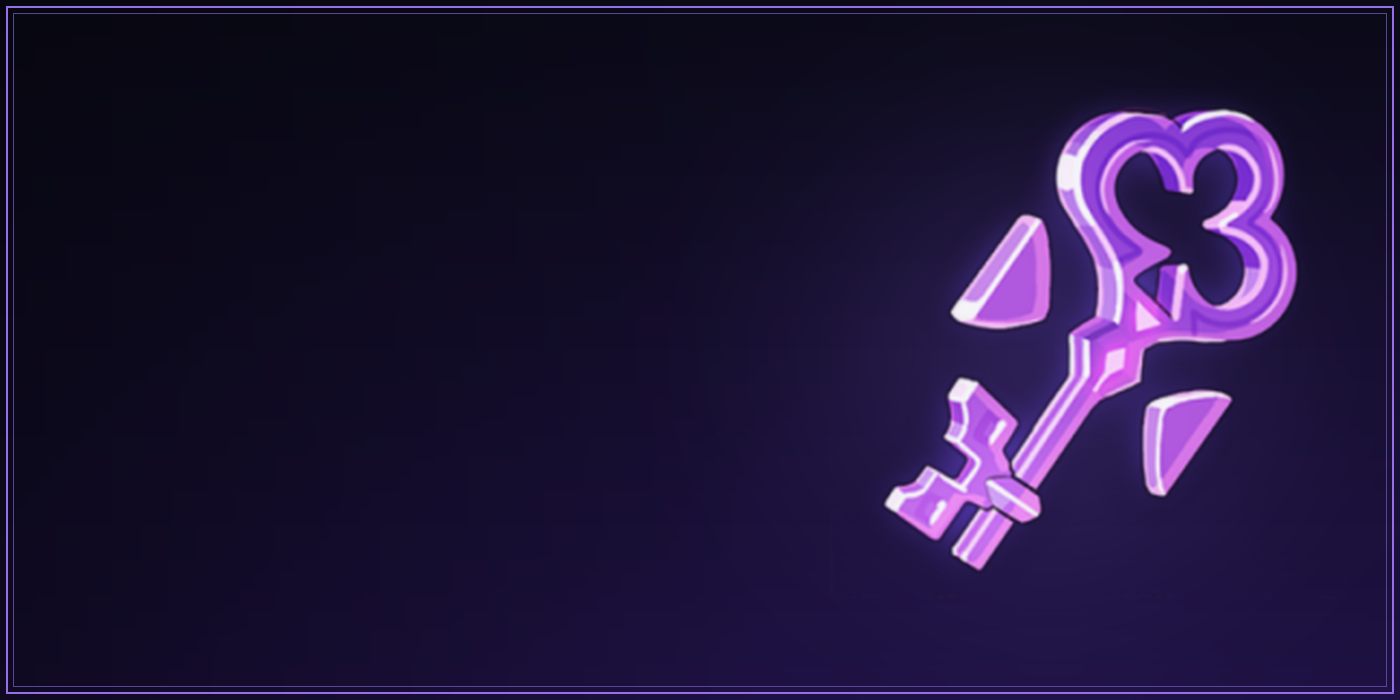
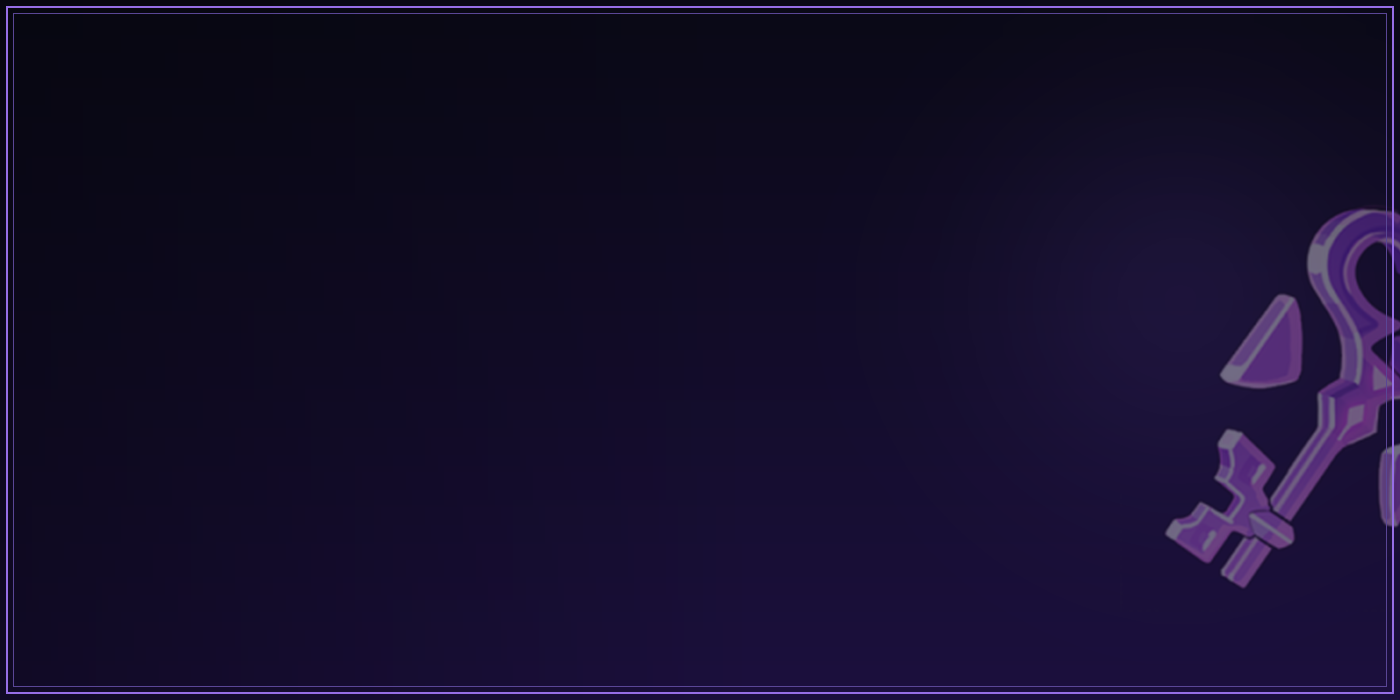
清理历史 bug + 刻印抽取改为传送门风格卡片并重排版
历史 bug：
- BH3_ValkyrieAir.txt 删除嵌套的 module_count_limit（解析错误）
- 学说文件删除不存在的 has_doctrine = bh3_sd_refined
- 删除 create_corps_commander 里 138 处非法 can_be_captured
- TheDivineKeys 决议删除 3 种非法 modifier 与非法 effect change_influence_percentage
- 4 个实体文件把废弃 mesh Kiana_HerrscherofVoid_pdx 改为 Kiana_HerrscherofVoid_Body_pdx

GUI：
- 新增 GFX_BH3_ER_portal_card（400x90 传送门风格卡片：紫黑底、圆形图标槽、光柱、描边）
- 新增 GFX_BH3_ER_signet_1..6（复用 13 个系图标中的 6 个）
- 候选按钮改为 6 张卡片 2x3 排布，左侧叠 64px 刻印图标
- 左列按钮整体上移，抽取/放弃移到底部
- 背景重做：钥匙缩到右侧边缘并降到 38% 透明

文档：实现记录补 2.6/2.7；避坑指南补第 10 节（临时目录模块遮蔽、文档性枚举提示）

Changed region(s): [[0.6143, 0.15, 1.0, 0.84]]

diff --git a/docs/BH3_往世乐土_实现记录.md b/docs/BH3_往世乐土_实现记录.md
@@ -145,3 +145,24 @@ ER 主界面（BH3_ER_menu）现在是完整面板：
 - 6 个候选按钮是硬编码的，扩到 12 系 × 14 枚（168）时需要改成“按系分池 + 动态渲染”（或每系一页）；
 - 目前不做重复保护：同一刻印抽到第二次仍会给精神（已有时跳过加精神，但计数仍 +1）；
 - 权重目前是均等 1/6，正式版要按稀有度/是否已持有加权。
+
+
+### 2.6 传送门风格刻印卡片与重排版（2026-11-25）
+
+- 新增 sprite：GFX_BH3_ER_portal_card（400x90 PNG 卡片：紫黑底、左侧圆形图标槽、竖向光柱、紫色描边）
+- 新增 6 个刻印图标 sprite：GFX_BH3_ER_signet_1..6（复用 elysianrealm/signet_*.png：救世= Savior、刹那= Setsuna、浮生= Fusheng、旭光= Kosma、黄金= Gold、天慧= Bodhi）
+- 抽取候选改成 6 张卡片，2 列 x 3 行（x=540/960，y=160/275/390），卡片左侧用 iconType 叠 64px 刻印图标（scale 0.5）
+- 左列按钮整体上移：推进 150 / 双倍 205 / 商店 260/315/370 / 英桀 425 / 抽取 480 / 放弃 535
+- 背景重做：无瑕之钥缩小到右侧边缘、透明度 38%，避免与卡片抢视线
+
+### 2.7 历史 bug 修复（2026-11-25）
+
+| 文件 | 问题 | 处理 |
+|---|---|---|
+| common/units/equipment/BH3_ValkyrieAir.txt | module_count_limit 里嵌套 module_count_limit 导致解析错误 | 删除嵌套块 |
+| common/doctrines/subdoctrines/land/BH3_valkyrie_subdoctrines.txt | has_doctrine = bh3_sd_refined，该学说不存在 | 删除该 available 块（原本就没有实际作用） |
+| common/scripted_effects/BH3_createleader_scripted_effects.txt | create_corps_commander 内的 can_be_captured 不是合法字段（138 处） | 全部删除 |
+| common/decisions/BH3_TheDivineKeys_decisions.txt | productivity_growth_modifier / expected_mil_modifier / energy_gain_multiplier 不是合法 modifier；change_influence_percentage 不是合法 effect | 删除这些无效行（它们本来就不生效） |
+| gfx/entities/*（4 个文件） | 引用已废弃的 Kiana_HerrscherofVoid_pdx | 改为重做后的 Kiana_HerrscherofVoid_Body_pdx |
+
+另：日志里大量 “not in script_enum_equipment_bonus_type” 是引擎的**文档性提示**（原文说 enum 只用于文档），不影响装备加成生效，未处理。

diff --git a/docs/BH3_避坑指南.md b/docs/BH3_避坑指南.md
@@ -98,3 +98,11 @@
 1. **common/scripted_effects 的子目录不加载**：放在 BH3_ER_signets/ 里的效果全部报 “Unknown effect-type”，按钮点了没反应。解法：文件放根目录，用前缀命名（BH3_ER_signets_*.txt）。
 2. **决议的 allowed 块不接受 has_country_flag / is_debug**：报 “Token ... is not supported within the allowed trigger”。解法：allowed 只写 always = yes，真正的条件全部放 visible；调试决议靠 visible 里的 is_debug 控制显示。
 3. **决议分类必须单独定义在 common/decisions/categories/**：把 category 定义写进 decisions 文件会报 “Unknown category”，且后续决议全部 “Unexpected token”。测试 mod 已按这个规则拆分。
+
+
+---
+
+## 10. 脚本环境补充
+
+1. **不要在 %TEMP% 里建 enum.py / re.py / glob.py / types.py 这类文件**：python 脚本所在目录是 sys.path[0]，会遮蔽标准库，报 “partially initialized module 'glob' has no attribute 'glob'”。脚本名统一加前缀（zz_ 之类）或用独立目录。
+2. 引擎日志里的 “not in script_enum_*” 属于**文档性枚举提示**，只要不是 “Value does not belong to designated Script EnumType”，一般不影响实际效果，不必逐个改。
